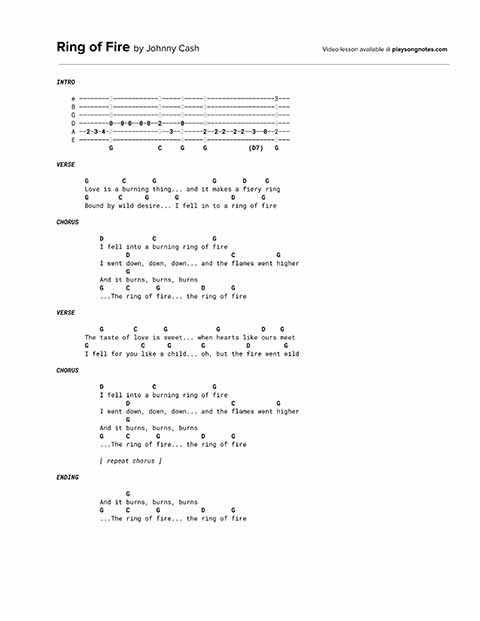
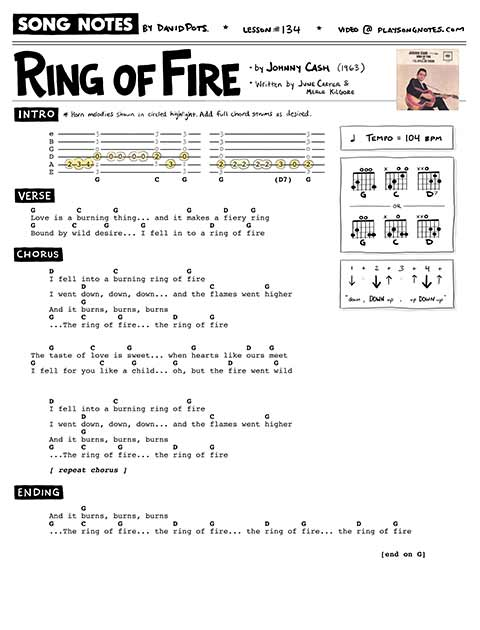
Updates 134 with pdf preview image

Changed region(s): [[0.0, 0.0, 0.9688, 0.8873]]

diff --git a/_includes/latest-pdfs.html b/_includes/latest-pdfs.html
@@ -1,6 +1,6 @@
 <ul>
 
-
+<li><a class="underline" href="/lessons/134"><strong>Ring of Fire</strong></a><br /><em>Sep 25, 2020 • Lesson #134</em></li>
 <li><a class="underline" href="/lessons/163"><strong>2-finger Blues in Drop-D Tuning</strong></a><br /><em>Sep 6, 2020 • Lesson #163</em></li>
 <li><a class="underline" href="/lessons/108"><strong>Learnin' to Fly</strong></a> by Tom Petty<br /><em>Aug 29, 2020 • Lesson #108</em></li>
 <li><a class="underline" href="/lessons/26"><strong>You're Gonna Make Me Lonesome When You Go</strong></a> by Bob Dylan<br /><em>Aug 22, 2020 • Lesson #26</em></li>

diff --git a/_lessons/134 [Johnny Cash] Ring of Fire.md b/_lessons/134 [Johnny Cash] Ring of Fire.md
@@ -11,6 +11,8 @@ tags: [Full Song Lesson, 1960s, Country, Key of G]
 slug: "134"
 redirect_from:
   - /songs/johnny-cash-ring-of-fire/
+pdf_version: v2
+pdf_numpages: 2
 patreon_lesson_available: true
 patreon_lesson_url: https://www.patreon.com/posts/22061680
 ---
@@ -22,9 +24,19 @@ patreon_lesson_url: https://www.patreon.com/posts/22061680
 
 {% include pdf-module.html slug = page.slug pdf_numpages = page.pdf_numpages pdf_version = page.pdf_version has_patreon_url = page.patreon_lesson_url patreon_url = page.patreon_lesson_url free_pdf_available = page.free_pdf_available free_pdf_url = page.free_pdf_url song_name = page.song_title %}
 
+## Editor's notes
+
+Hey friends -- here's a guitar lesson teaching you how to play the Johnny Cash song "Ring of Fire" from 1963 (orig. written by June Carter and Merle Kilgore). In this tutorial I'll teach you how to play the chords, strumming, and explain how to mimic that Mariachi horn sound with your acoustic guitar (tab included). Typically, Johnny Cash played this with his full band, benefiting from their drum / bass / electric guitar -- but this lesson will teach you how to play the distinctive lead riff while strumming at the same time -- which roughly approximates the sound of multiple instruments. Check it out and enjoy!
+
+Timestamps:
+
+- 0:00 Playthrough & overview
+- 2:04 Chords and strumming basics
+- 6:25 Mariachi lead riff w/ tab
+
 ## Lyrics w/ chords
 
-    INTRO 
+    INTRO
 
         e ––––––––––––––––––––––––––––––––––––––––––––––––––––––––
         B ––––––––––––––––––––––––––––––––––––––––––––––––––––––––
@@ -151,6 +163,15 @@ From here, I recommend keeping your hands in the G and C chord shapes - and if y
     E ––––––––3––––––––––––––––––3–––––3––––––––––––––––––3–––
               G            C     G     G           (D7)   G   
 
-## Good luck!
+## My other Johnny Cash guitar lessons
 
-Let me know if you have questions. I hope this was helpful. Be sure to check out my other Johnny Cash lessons, I have a bunch!
+I've got plenty others, all of which have PDF chord sheets available -- here they are!
+
+- [I Walk the Line](https://playsongnotes.com/lessons/262/)
+- [I've Been Everywhere](https://playsongnotes.com/lessons/170/)
+- [When the Man Comes Around](https://playsongnotes.com/lessons/159/)
+- [Tennessee Flat Top Box](https://playsongnotes.com/lessons/145/)
+- [Sunday Morning Coming Down](https://playsongnotes.com/lessons/98/)
+- [Hurt](https://playsongnotes.com/lessons/90/)
+- [Folsom Prison Blues](https://playsongnotes.com/lessons/72/)
+- [Give My Love to Rose](https://playsongnotes.com/lessons/18/)
